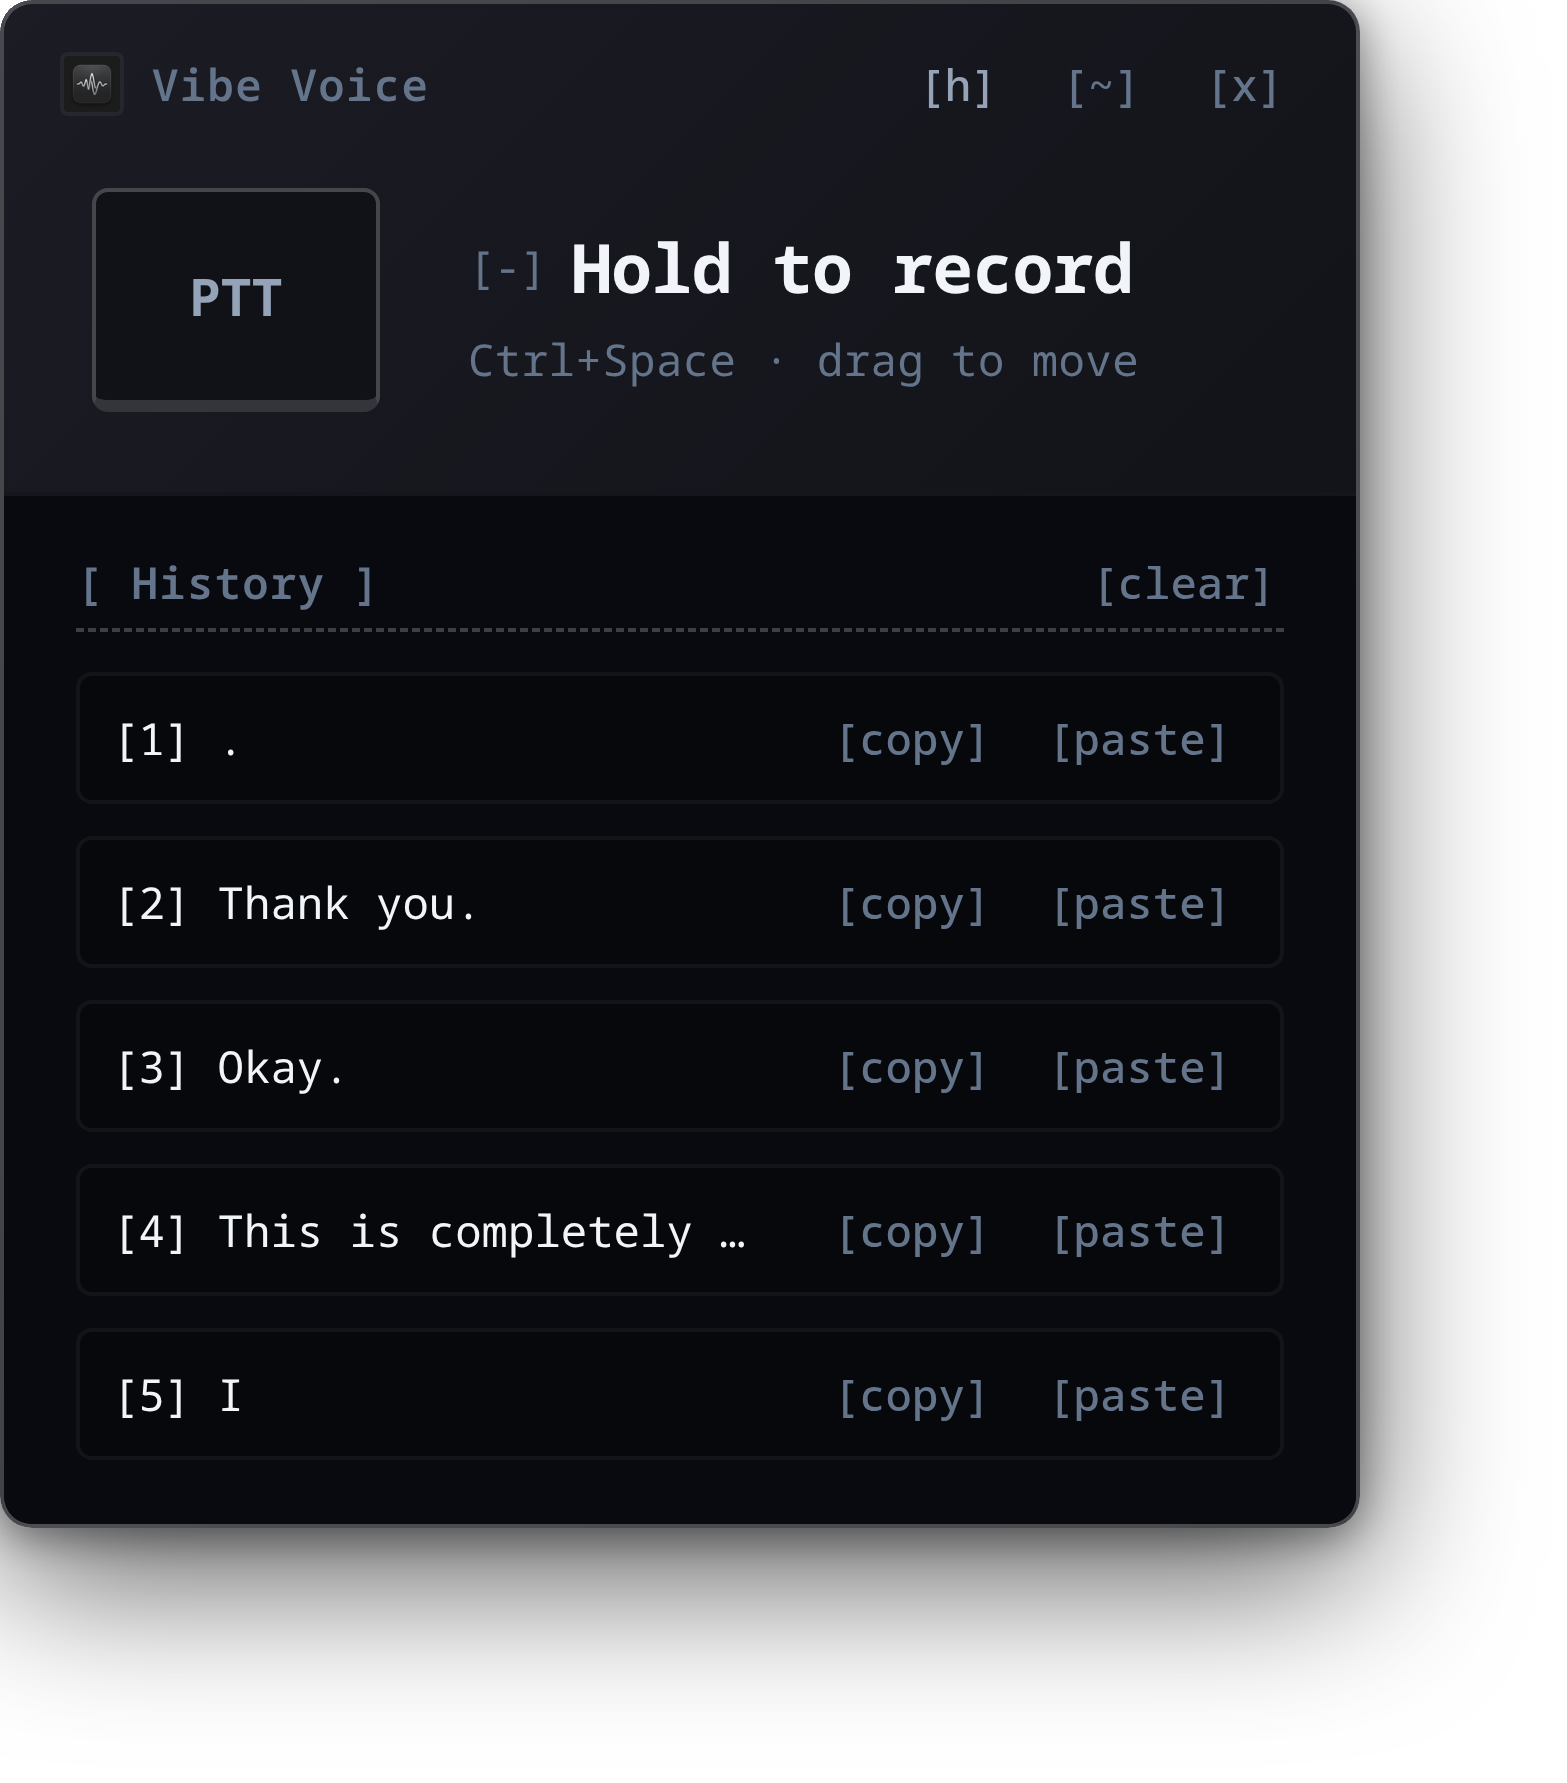
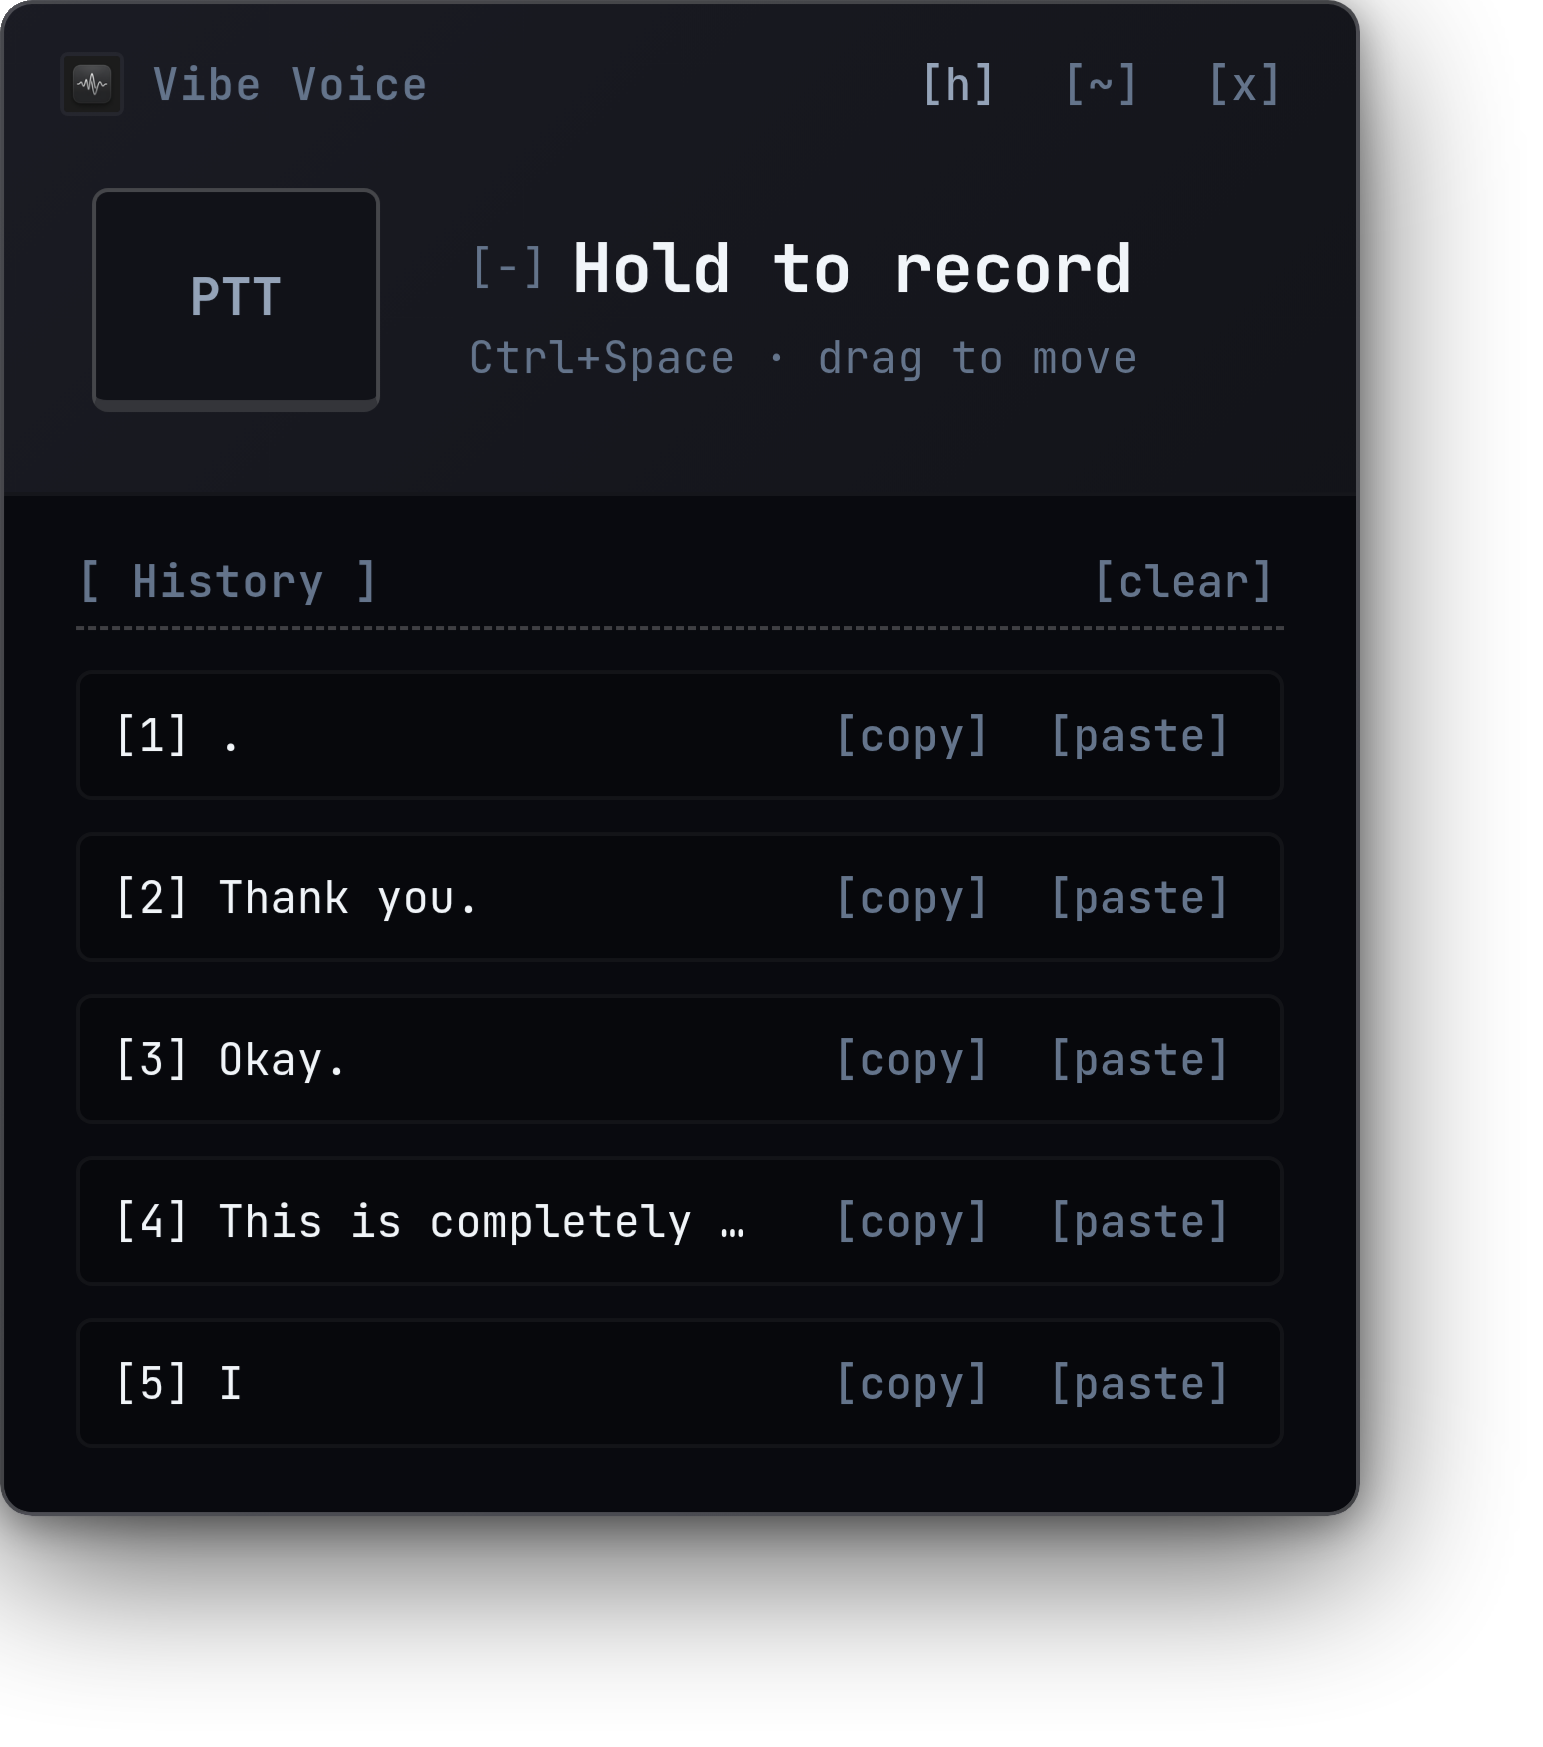
style: replace circular spinner with retro TUI slash loader

diff --git a/src/style.css b/src/style.css
@@ -480,20 +480,18 @@ html, body {
 /* ── Spinner ───────────────────────────────────────────── */
 
 .spinner::after {
-  content: '';
   display: inline-block;
-  width: 11px;
-  height: 11px;
-  margin-left: 7px;
-  border: 1.5px solid var(--accent-warm);
-  border-top-color: transparent;
-  border-radius: 50%;
-  animation: spin 0.7s linear infinite;
-  vertical-align: middle;
+  margin-left: 8px;
+  content: '|';
+  animation: tui-spinner 0.6s steps(4) infinite;
+  color: var(--accent-warm);
 }
 
-@keyframes spin {
-  to { transform: rotate(360deg); }
+@keyframes tui-spinner {
+  0%   { content: '|'; }
+  25%  { content: '/'; }
+  50%  { content: '-'; }
+  75%  { content: '\\'; }
 }
 
 /* ── Error Shake ───────────────────────────────────────── */
